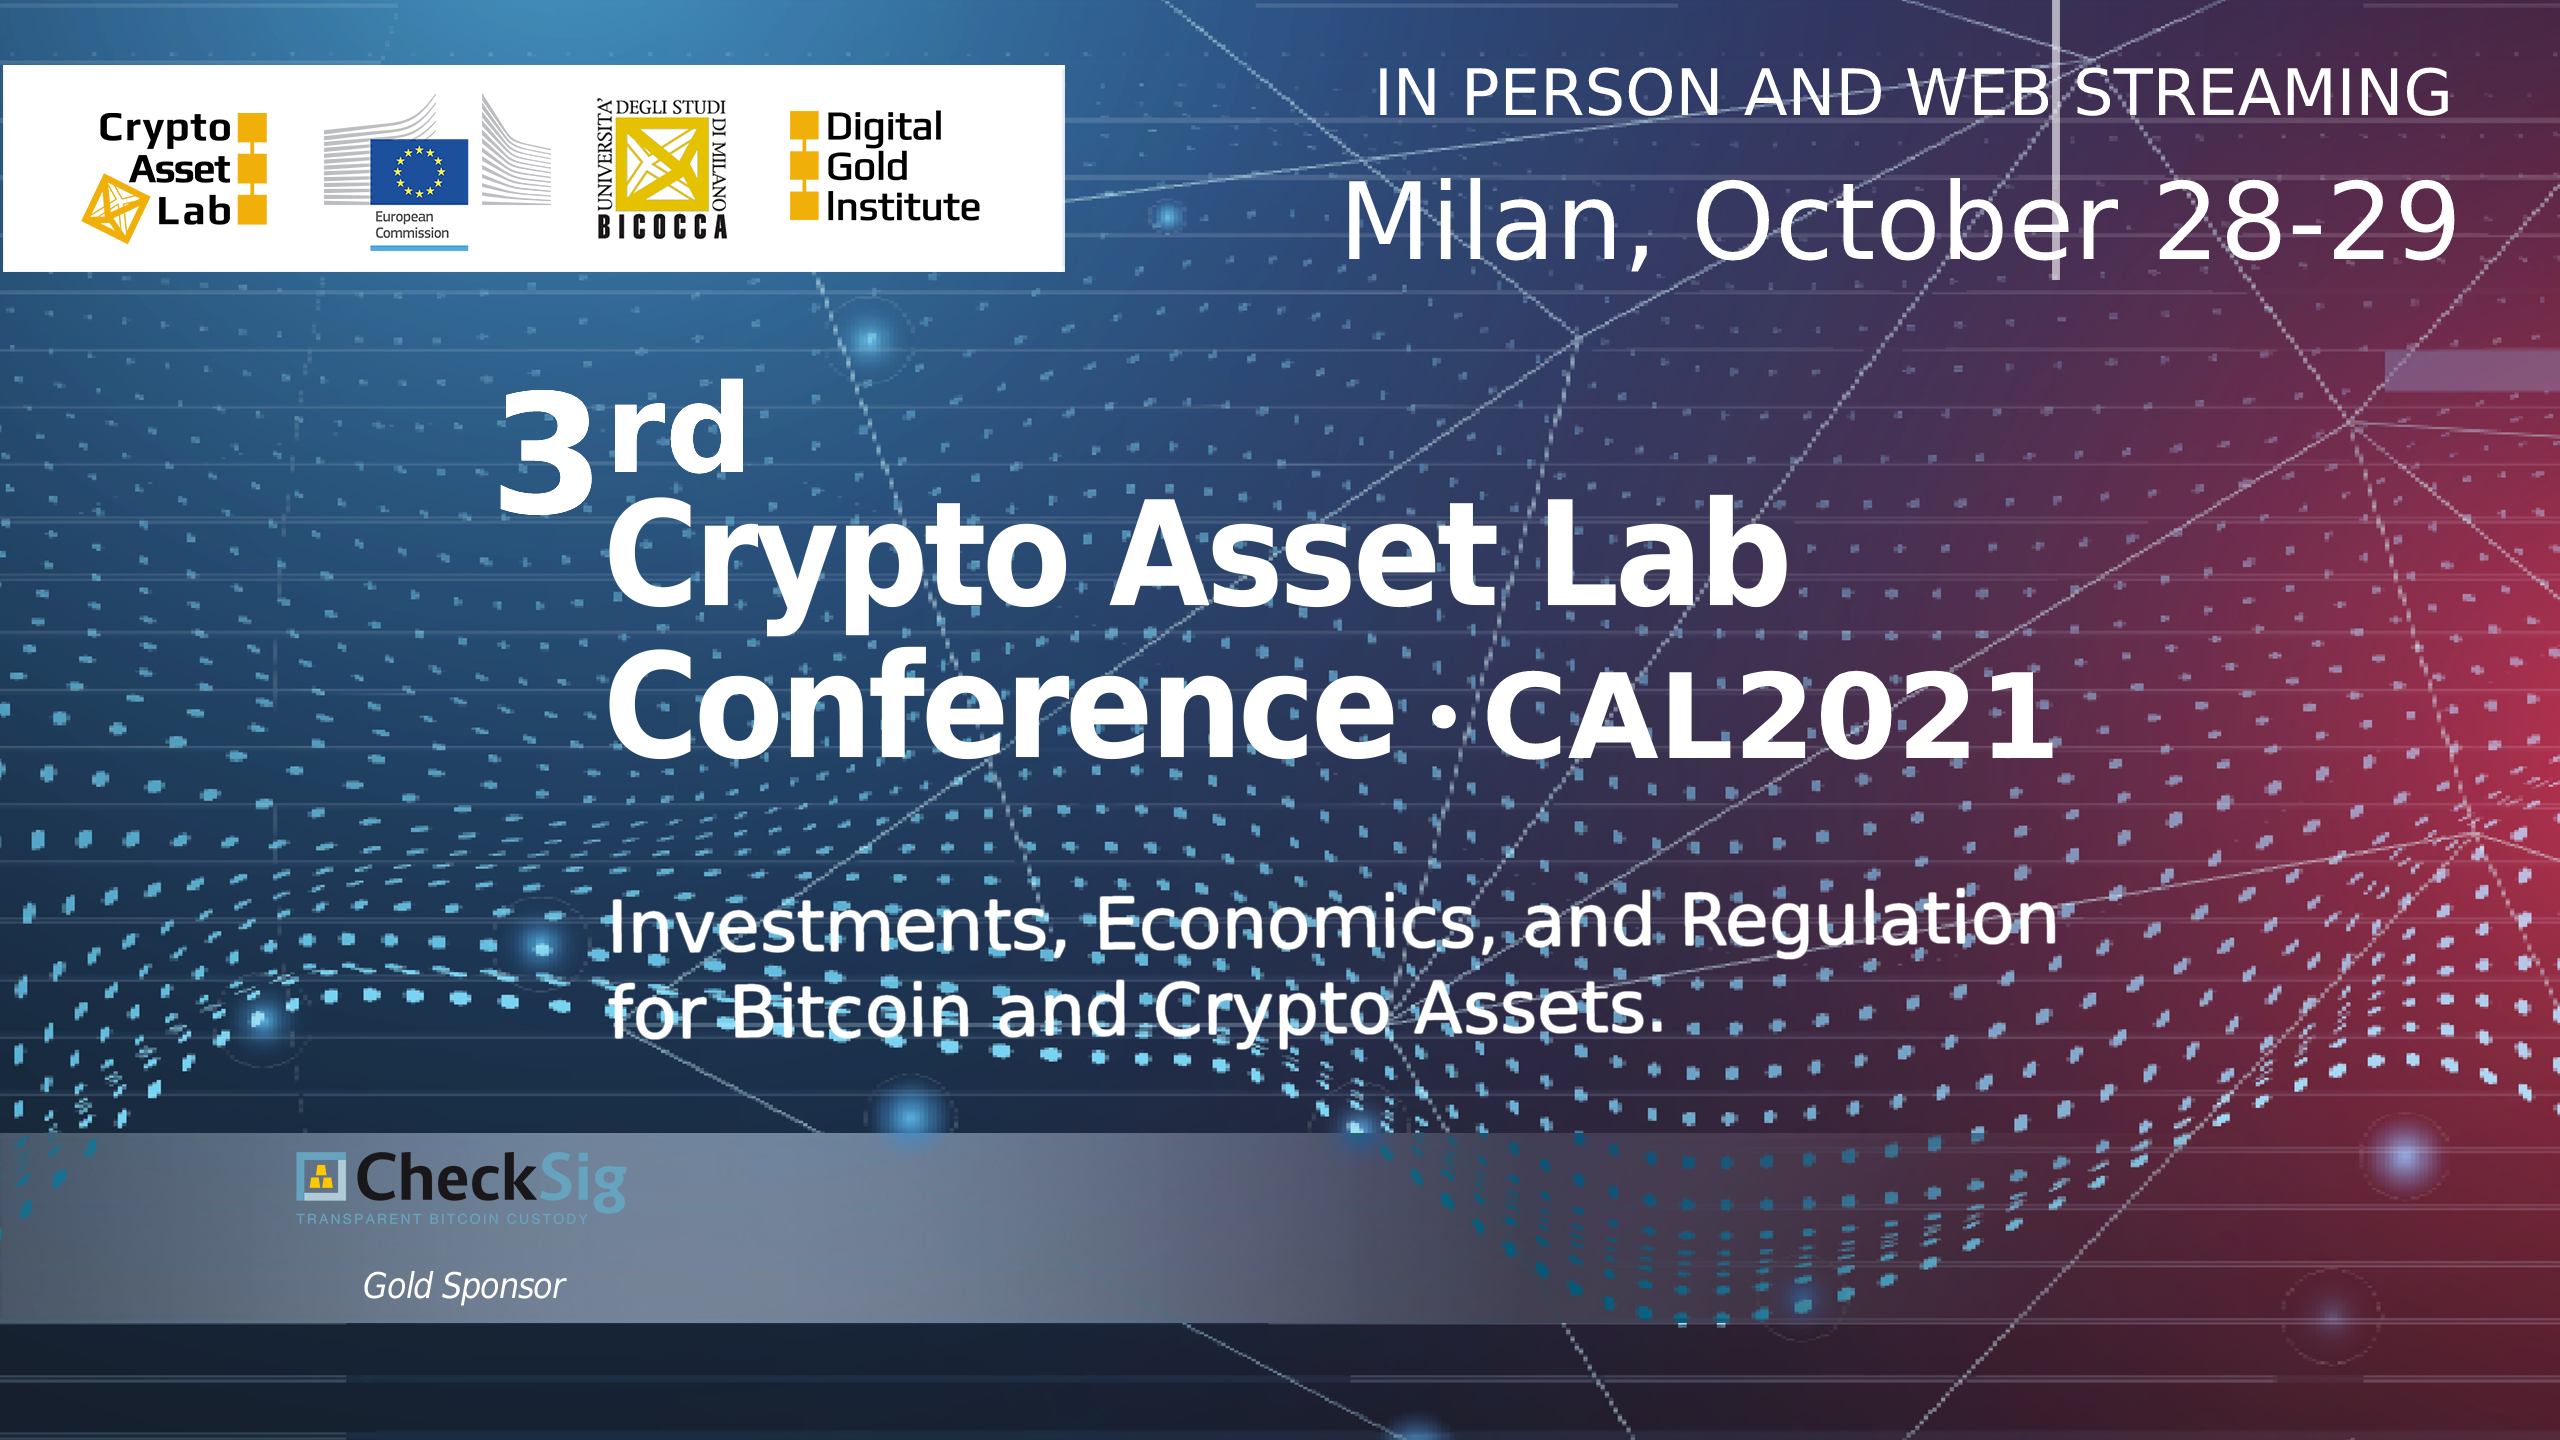
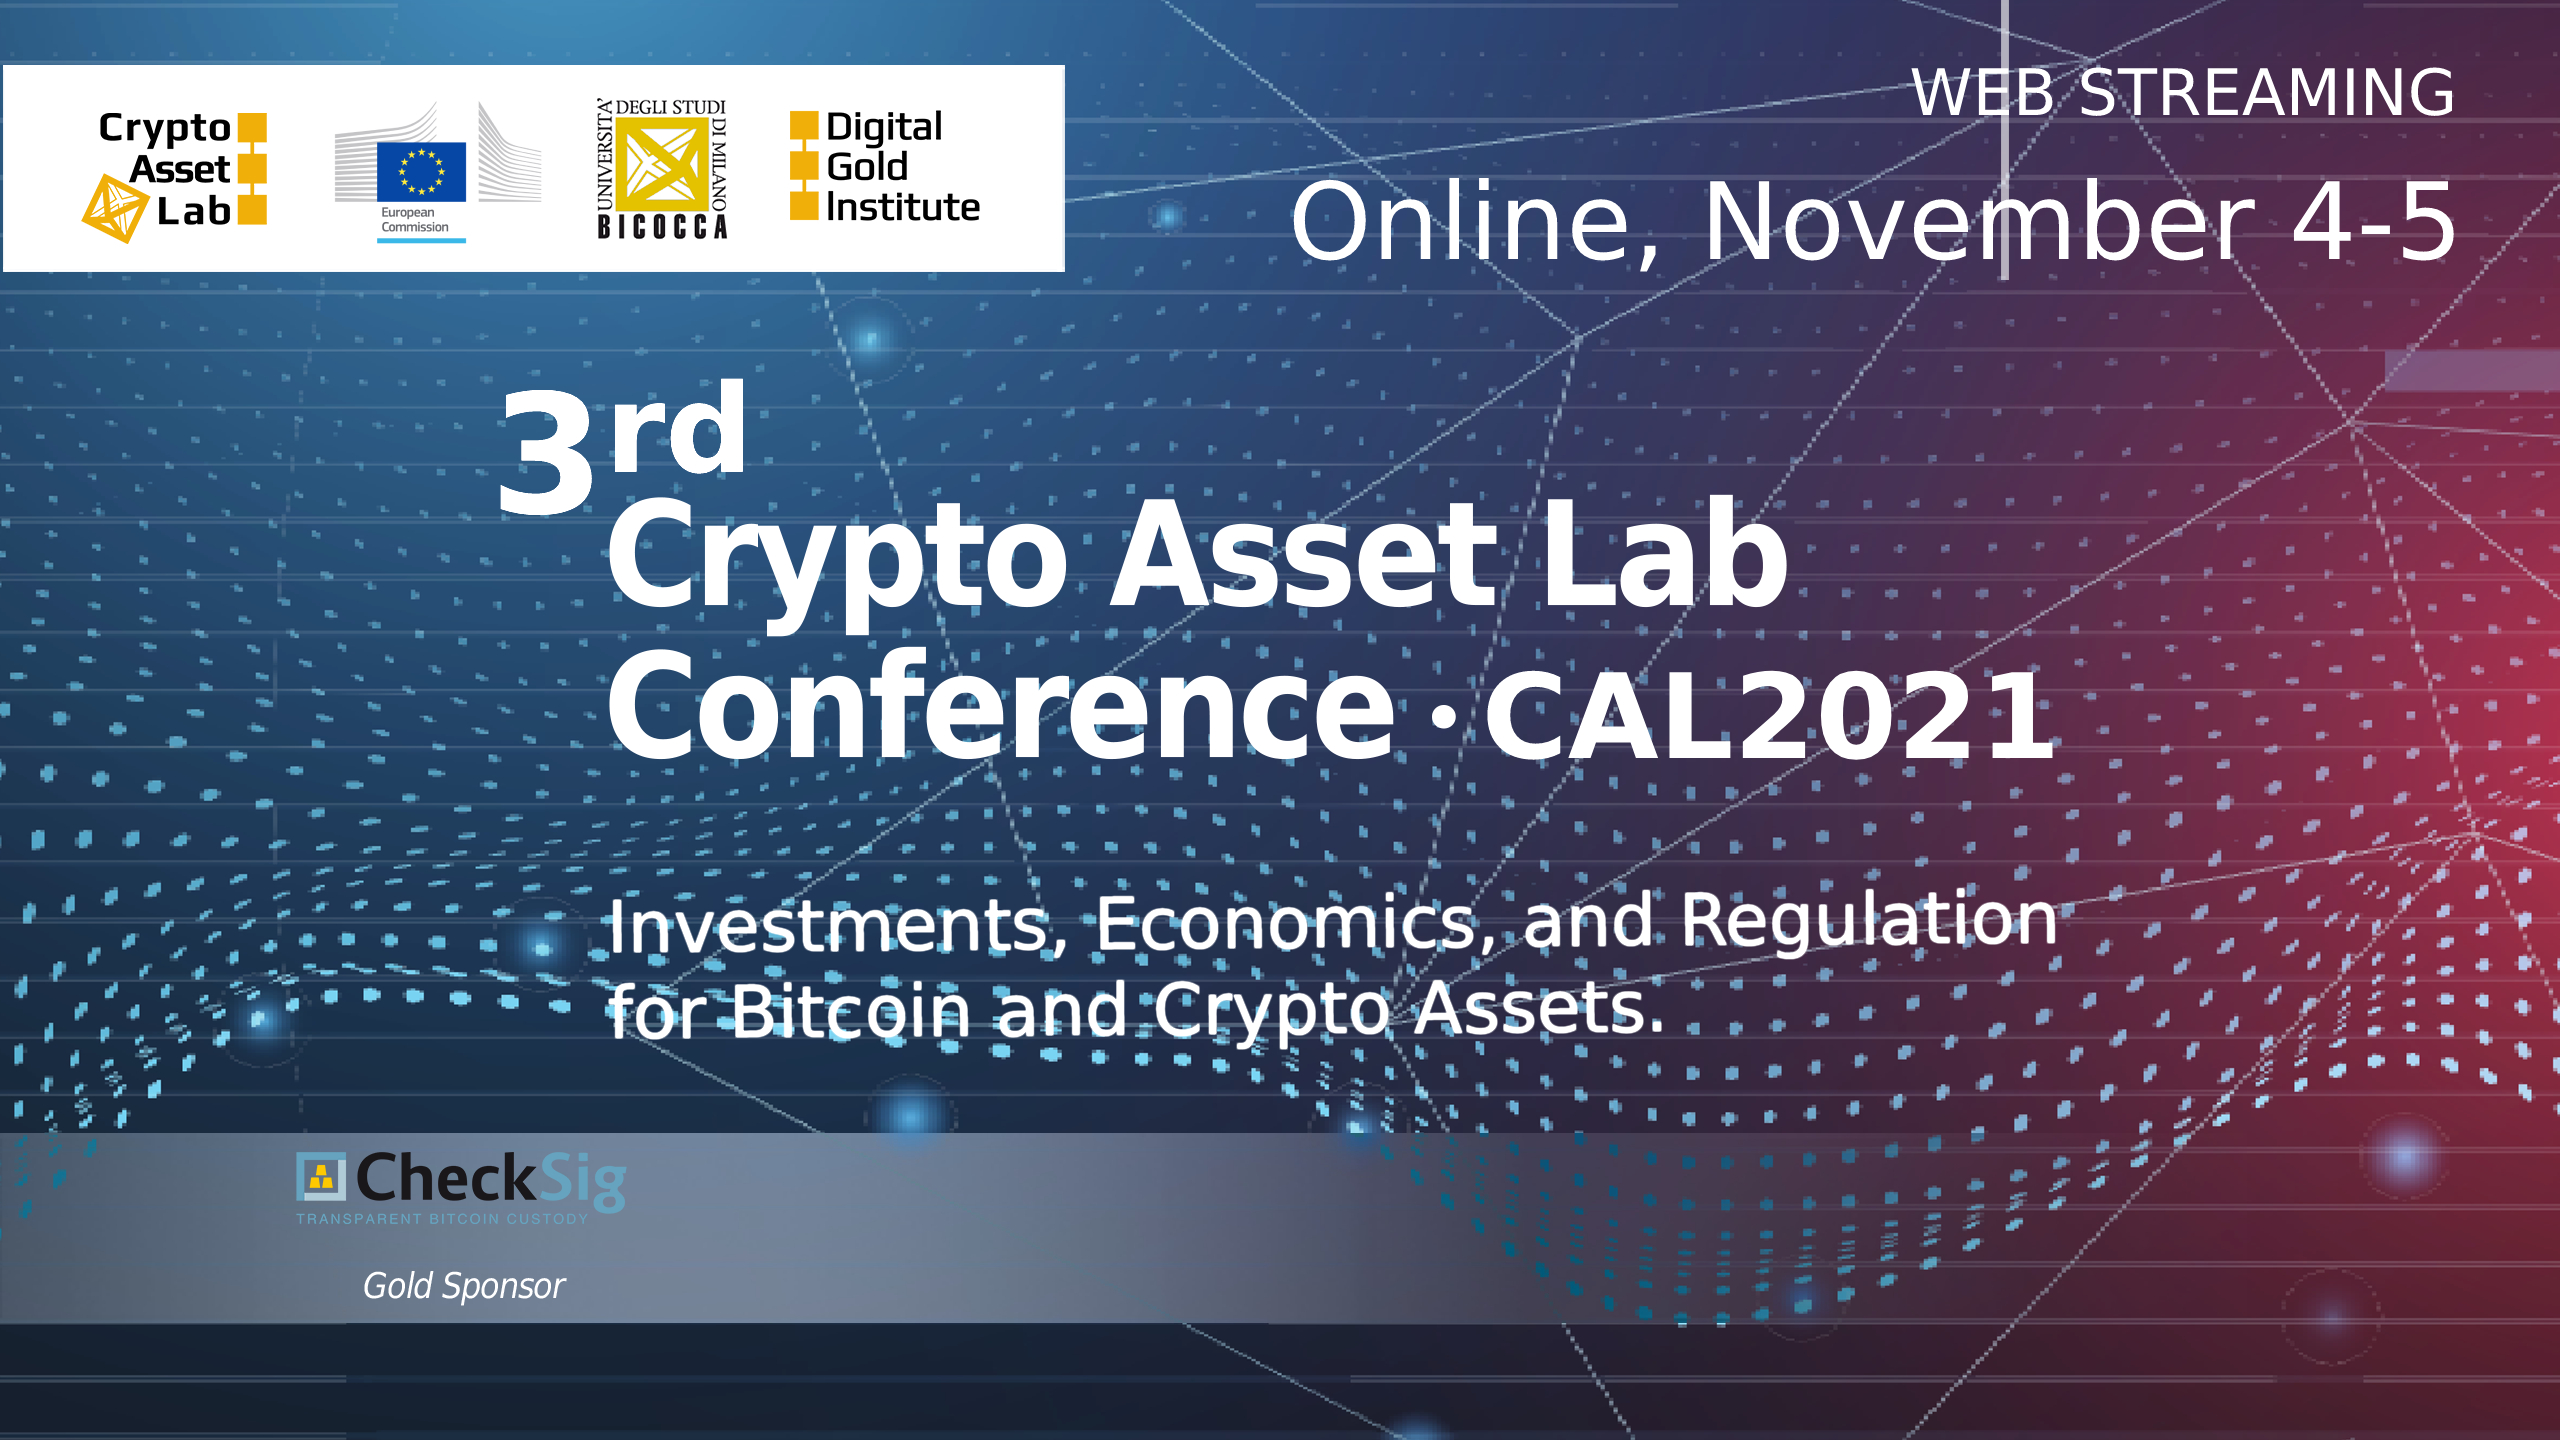
updated

Changed region(s): [[0.5, 0.0, 0.9688, 0.1875], [0.125, 0.0625, 0.2188, 0.1875]]

diff --git a/_pages/calconf.md b/_pages/calconf.md
@@ -6,7 +6,7 @@ permalink: /calconf/
 ---
 
 
-![CAL202](/img/cal2021/cal2021.jpg){:class="img-responsive"}
+![CAL2021](/img/cal2021/cal2021.jpg){:class="img-responsive"}
 
 <!--
 <a href="https://twitter.com/CryptoAssetLab/status/1288498668891525125">
@@ -34,14 +34,14 @@ permalink: /calconf/
 
 ### A joint event with the [DG Joint Research Centre, European Commission](https://ec.europa.eu/knowledge4policy/organisation/jrc-joint-research-centre_en)
 
-### Milan (Italy) and web streaming, October 28-29, 2021
+### Milan (Italy) and web streaming, November 4-5, 2021
 
 ### Relevant dates
 
 * Abstract submission: June 30, 2021
-* Abstract acceptance: July 30, 2021
-* Paper submission: September 3, 2021
-* Paper acceptance: October 1, 2021
+* Abstract acceptance: July 16, 2021
+* Paper submission: September 17, 2021
+* Paper acceptance: October 8, 2021
 
 ### Abstract Submission
 
@@ -127,7 +127,7 @@ Topics include, but are not limited to:
 
 ### Program
 
-The CAL 2021 conference program will be available late September or early October.
+The CAL 2021 conference program will be available early October.
 <!--
 The CAL 2021 conference program is available at the [dedicated page]({{ site.baseurl }}/cal2021/)
 -->
